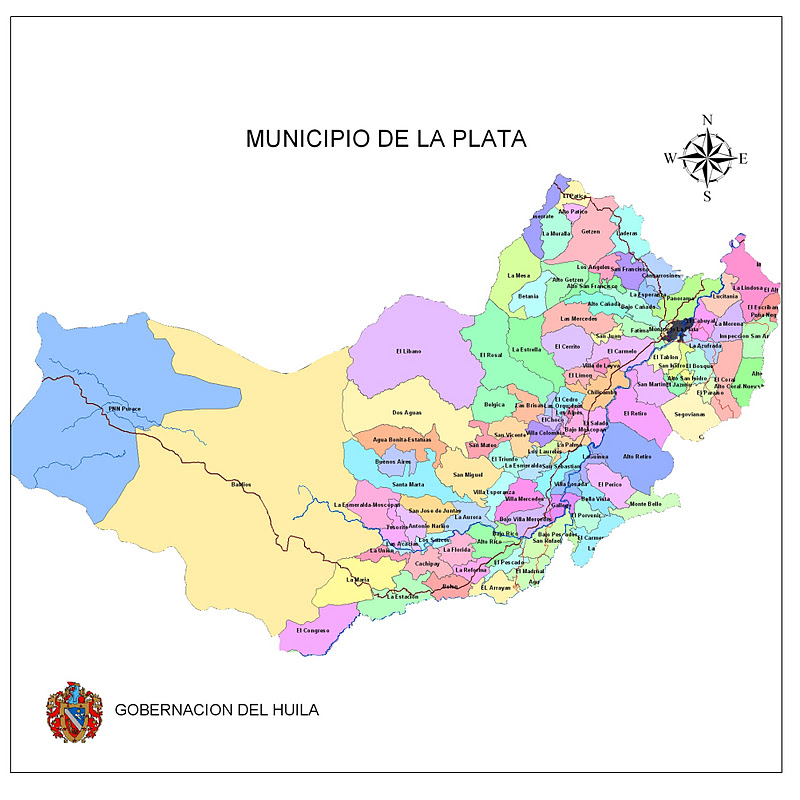
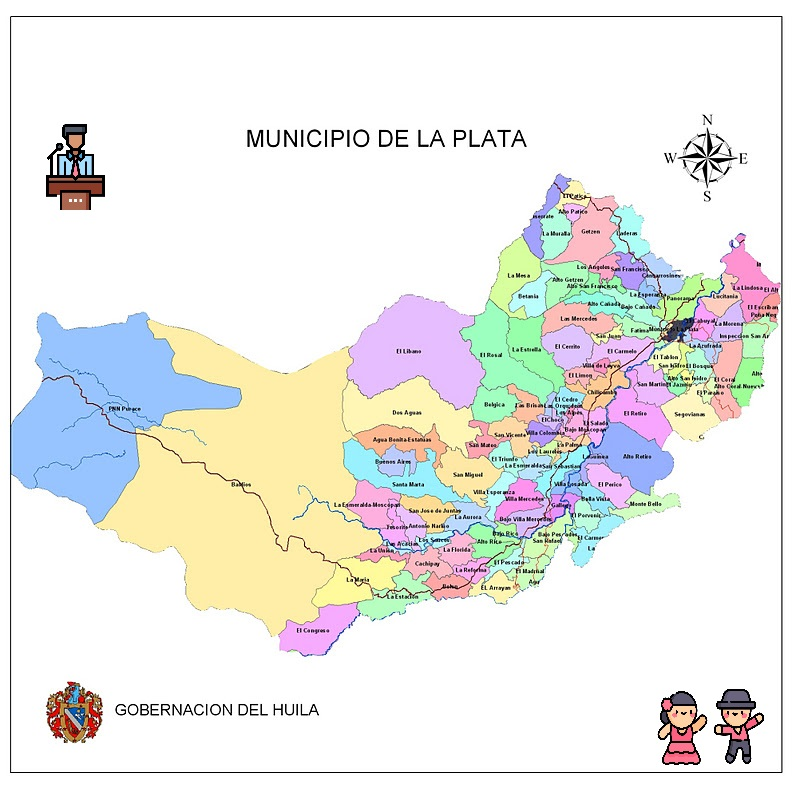
ejercicio dos completo :penguin:

diff --git a/css/style.css b/css/style.css
@@ -1,5 +1,18 @@
 /* estilizado para pantallaz mayores a 1200 minimo */
 @media only screen and (min-width:1230px){
+    .mapainteractivo{
+        width: 400px;
+        height: 379px;
+    }
+    /* evitar que el top de devolver tenga linea por debajo y cambie de color */
+    h2 a{
+        text-decoration: none;
+    }
+    /* evitar que la decoracion se haga en las lista de creditos */
+    ol li a:link{
+        text-decoration: none;
+    }
+    /* tomado del ejemplo del profesor en clase */
     #btn-menu {
         display: none;   /* oculta el checkbox cuando no es necesario*/
     } 
@@ -174,15 +187,24 @@
         color: black;
     } 
 }
-
 /* para tamaños no entre 800 y 1200 px*/
 @media only screen and (min-width:810px) and (max-width:1230px){
+    .mapainteractivo{
+        width: 400px;
+        height: 379px;
+    }
+    /* evitar que el top de devolver tenga linea por debajo y cambie de color */
+    h2 a{
+        text-decoration: none;
+    }
+    /* evitar que la decoracion se haga en las lista de creditos */
+    ol li a:link{
+        text-decoration: none;
+    }
+    /* tomado del ejemplo del profesor en clase */
     #btn-menu {
         display: none;   /* oculta el checkbox cuando no es necesario*/
-    } 
-    header label{
-        display: block; /* se muestra el checkbox cuando se reduce la ventana*/
-    } 
+    }
     /* elementos del menu desplegable*/
     header label{
         display: block; /* se muestra el checkbox cuando se reduce la ventana*/
@@ -337,11 +359,22 @@
 }
 
 @media only screen and (min-width:480px) and (max-width:810px){
+    .mapainteractivo{
+        width: 400px;
+        height: 379px;
+    }
+    /* evitar que el top de devolver tenga linea por debajo y cambie de color */
+    h2 a{
+        text-decoration: none;
+    }
+    /* evitar que la decoracion se haga en las lista de creditos */
+    ol li a:link{
+        text-decoration: none;
+    }
+    /* tomado del ejemplo del profesor en clase */
     #btn-menu {
         display: none;   /* oculta el checkbox cuando no es necesario*/
-    } 
-    header label{
-        display: block; /* se muestra el checkbox cuando se reduce la ventana*/
+        width:30px;
     } 
     /* elementos del menu desplegable*/
     header label{
@@ -449,7 +482,10 @@
     .navinterna {
         padding-top: 30px;
         padding-bottom: 30px;
-        padding-left: 11%;
+        padding-left: 1%;
+    }
+    .navinterna nav a{
+        font-size: 9px;
     }
     /* estilo de foto panoramica */
     /* se ingresa estilo para la imagen de inicio */
@@ -497,12 +533,22 @@
 }
 
 @media only screen and (min-width:1px) and (max-width:480px){
+    .mapainteractivo{
+        width: 350px;
+        height: 379px;
+    }
+    /* evitar que el top de devolver tenga linea por debajo y cambie de color */
+    h2 a{
+        text-decoration: none;
+    }
+    /* evitar que la decoracion se haga en las lista de creditos */
+    ol li a:link{
+        text-decoration: none;
+    }
+    /* tomado del ejemplo del profesor en clase */
     #btn-menu {
         display: none;   /* oculta el checkbox cuando no es necesario*/
-    } 
-    header label{
-        display: block; /* se muestra el checkbox cuando se reduce la ventana*/
-    } 
+    }
     /* elementos del menu desplegable*/
     header label{
         display: block; /* se muestra el checkbox cuando se reduce la ventana*/
@@ -511,8 +557,8 @@
         position: fixed;  /* sostiene la posición aunque se haga scroll en el contenido */
         background: rgba(0.5, 0.5, 0.5, 0.2); /* rojo, verde, azul, alpha (transparencia) */
 		z-index: 30; /* para asegurar que el menu esta por encima de todo lo demás*/
-        width: 55%; /* se refiere al ancho del fondo del menu y no a los botones */
-        margin-left: -60%; /* se oculta porque se coloca por fuera de la ventana*/
+        width: 65%; /* se refiere al ancho del fondo del menu y no a los botones */
+        margin-left: -70%; /* se oculta porque se coloca por fuera de la ventana*/
 		margin-top: 4px;
         transition: all 2s;   /* la animación de desplegar el menu dura 1 segundo*/
     } 
@@ -520,7 +566,7 @@
         flex-direction: column;  /* se despliega en sentido vertical*/
     } 
     .menu li {
-        padding: 5px;
+        padding: 8px;
         margin-left: 5px;
         list-style-type: none;
     }
@@ -583,6 +629,7 @@
     .historia {
         text-align: justify;
     }
+
     /* me dfine el tamaño de la figura mapa */
     .mapa {
         width: 200px;
@@ -608,9 +655,12 @@
     }
     /* navegacion de pagina */
     .navinterna {
-        padding-top: 30px;
-        padding-bottom: 30px;
-        padding-left: 11%;
+        padding-top: 20px;
+        padding-bottom: 20px;
+    }
+    .navinterna nav a{
+        font-size: 6px;
+        font-weight: 400;
     }
     /* estilo de foto panoramica */
     /* se ingresa estilo para la imagen de inicio */
@@ -629,7 +679,6 @@
         height: 266px;
     }
     /* banner de fotos de actividades */
-
     /* estilo de insginia con borde */
     .insignias{
         align-content: center;

diff --git a/paginacinco.html b/paginacinco.html
@@ -61,9 +61,9 @@
             <ol>
                 <li>Corrector de contenido, &nbsp; <a href="https://www.corrector.co/es/" target="_blank">Enlace</a></li>
                 <li>Icono de pagina, &nbsp; <a href="https://www.flaticon.com/free-icons/village" title="village icons" target="_blank">Enlace</a></li>
-                <a href="https://www.flaticon.es/iconos-gratis/flamenco" title="flamenco iconos">Flamenco iconos creados por Freepik - Flaticon</a>
-                <a href="https://www.flaticon.es/iconos-gratis/espana" title="españa iconos">España iconos creados por Freepik - Flaticon</a>
-                <a href="https://www.flaticon.es/iconos-gratis/politico" title="político iconos">Político iconos creados por Freepik - Flaticon</a>
+                <li>Icono de baile femenino, &nbsp; <a href="https://www.flaticon.es/iconos-gratis/flamenco" title="flamenco iconos"  target="_blank">Enlace</a></li>
+                <li>Icono de baile masculino, &nbsp; <a href="https://www.flaticon.es/iconos-gratis/espana" title="españa iconos"  target="_blank">Enlace</a></li>
+                <li>Icono de politico  - persona, &nbsp; <a href="https://www.flaticon.es/iconos-gratis/politico" title="político iconos"  target="_blank">Enlace</a></li>
             </ol>
             <br>
         </div>
@@ -72,13 +72,15 @@
 
         <p>Click on the computer, the phone, or the cup of coffee to go to a new page and read more about the topic:</p>
         <!-- se define la imagen que se usara mediante clicks -->
-        <img src="imagenes/workplace.jpg" alt="Workplace" usemap="#workmap" width="400" height="379">
+        <img src="imagenes/laplata2.jpg" alt="mapa interactivo" class="mapainteractivo" usemap="#workmap" >
         <!-- funcionalidad de mapa -->
         <map name="workmap">
             <!-- se toman puntos referencia de la imagen que referenciaran los otros sitios de la pagina -->
-            <area shape="rect" coords="34,44,270,350" alt="Computer" href="paginauno.html">
-            <area shape="rect" coords="290,172,333,250" alt="Phone" href="paginados.html">
-            <area shape="circle" coords="337,300,44" alt="Cup of coffee" href="paginatres.html">
+            <area shape="circle" coords="190,70,24" alt="Mercury" href="index.html">
+            <area shape="circle" coords="330,70,24" alt="Phone" href="paginauno.html">
+            <area shape="circle" coords="30,80,24" alt="Computer" href="paginados.html">
+            <area shape="circle" coords="330,350,34" alt="Cup of coffee" href="paginatres.html">
+            <area shape="circle" coords="40,330,24" alt="Mercury" href="paginacuatro.html">
         </map>
 
     </div>
